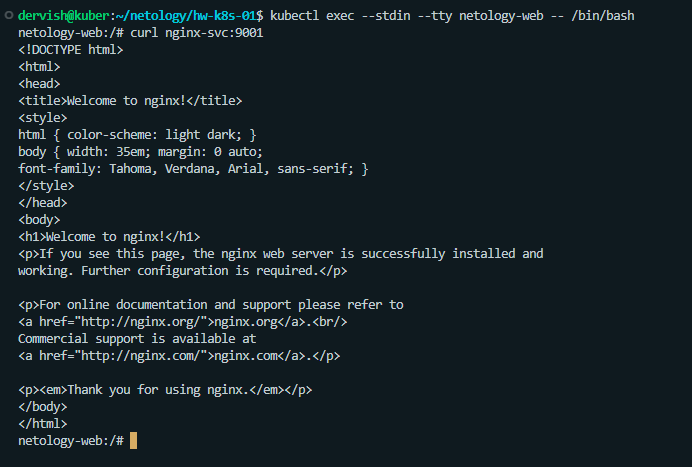
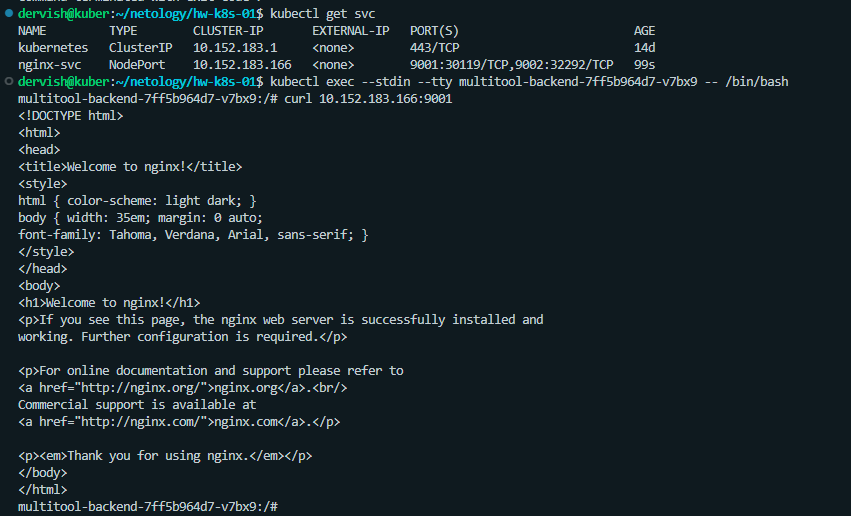
all done

Changed region(s): [[0.0, 0.0, 0.8194, 1.0], [0.8194, 0.0, 0.9104, 0.06], [0.8497, 0.1499, 0.9408, 0.1799]]

diff --git a/README.md b/README.md
@@ -1,8 +1,8 @@
-# Домашнее задание к занятию «Сетевое взаимодействие в K8S. Часть 1»
+# Домашнее задание к занятию «Сетевое взаимодействие в K8S. Часть 2»
 
 ## Цель задания
 
-В тестовой среде Kubernetes необходимо обеспечить доступ к приложению, установленному в предыдущем ДЗ и состоящему из двух контейнеров, по разным портам в разные контейнеры как внутри кластера, так и снаружи.
+В тестовой среде Kubernetes необходимо обеспечить доступ к двум приложениям снаружи кластера по разным путям.
 
 ## Чеклист готовности к домашнему заданию
 
@@ -12,47 +12,50 @@
     Редактор YAML-файлов с подключённым Git-репозиторием.
 
 
-## Задание 1. Создать Deployment и обеспечить доступ к контейнерам приложения по разным портам из другого Pod внутри кластера
+## Задание 1. Создать Deployment приложений backend и frontend
 
-Создать Deployment приложения, состоящего из двух контейнеров (nginx и multitool), с количеством реплик 3 шт.
+Создать Deployment приложения frontend из образа nginx с количеством реплик 3 шт.
 
->Ответ: [deploy.yml](./deploy.yml)
+>Ответ: [frontend.yml](./frontend.yml)
 
-![deploy](./task1/deploy.png)
+![frontend](./task1/frontend.png)
 
-Создать Service, который обеспечит доступ внутри кластера до контейнеров приложения из п.1 по порту 9001 — nginx 80, по 9002 — multitool 8080.
+Создать Deployment приложения backend из образа multitool.
+
+>Ответ: [backend.yml](./backend.yml)
+
+![backend](./task1/backend.png)
+
+Добавить Service, которые обеспечат доступ к обоим приложениям внутри кластера.
 
 >Ответ: [service.yml](./service.yml)
 
 ![service](./task1/service.png)
 
-Создать отдельный Pod с приложением multitool и убедиться с помощью curl, что из пода есть доступ до приложения из п.1 по разным портам в разные контейнеры.
-
-![pods](./task1/pods.png)
-![curl](./task1/curl.png)
-
-Продемонстрировать доступ с помощью curl по доменному имени сервиса.
+Продемонстрировать, что приложения видят друг друга с помощью Service.
 
 ![curl1](./task1/curl1.png)
+![curl2](./task1/curl2.png)
 
 Предоставить манифесты Deployment и Service в решении, а также скриншоты или вывод команды п.4.
 
->Ответ: [deploy.yml](./deploy.yml)  [service.yml](./service.yml)
-
-![curl1](./task1/curl1.png)
+>Ответ: [frontend.yml](./frontend.yml)  [backend.yml](./backend.yml) [service.yml](./service.yml)
 
 
+## Задание 2. Создать Ingress и обеспечить доступ к приложениям снаружи кластера
 
-## Задание 2. Создать Service и обеспечить доступ к приложениям снаружи кластера
+Включить Ingress-controller в MicroK8S.
 
-Создать отдельный Service приложения из Задания 1 с возможностью доступа снаружи кластера к nginx, используя тип NodePort.
+![enable](./task2/enable.png)
 
-![node](./task2/node.png)
+Создать Ingress, обеспечивающий доступ снаружи по IP-адресу кластера MicroK8S так, чтобы при запросе только по адресу открывался frontend а при добавлении /api - backend.
+
+>Ответ: [ingress.yml](./ingress.yml)
 
 Продемонстрировать доступ с помощью браузера или curl с локального компьютера.
 
-![curl](./task2/curl.png)
+![ingress](./task2/ingress.png)
 
-Предоставить манифест и Service в решении, а также скриншоты или вывод команды п.2.
+Предоставить манифесты и скриншоты или вывод команды п.2.
 
->Ответ: [ext_svc.yml](./ext_svc.yml)
+>Ответ: [hello.yml](./hello.yml) [api.yml](./api.yml) [service-hello.yml](./service-hello.yml) [service-api.yml](./service-api.yml) [ingress.yml](./ingress.yml)
